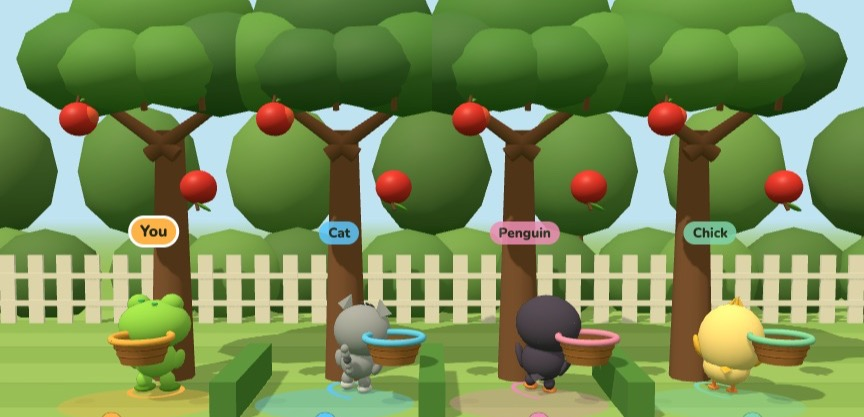
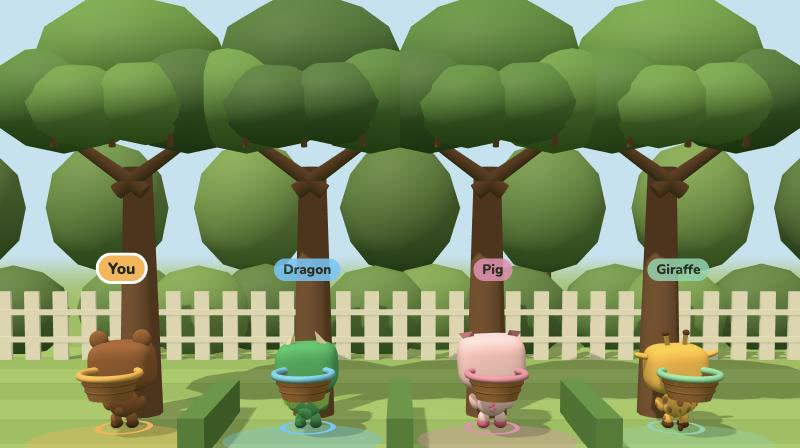
Retake game screenshots with Pop characters
Seventeen game previews still showed the classic round-headed critters or
the older robots. Retake them in-game with the Pop figures, a different
player character in each, and update alt text that described robots.

diff --git a/src/main.js b/src/main.js
@@ -1292,17 +1292,17 @@ for (const list of document.querySelectorAll("#home .choice-row")) {
           option.dataset.game === "toybox"
             ? `<span class="map-thumb toybox-preview" aria-hidden="true"><span>🧸 🚀 🦆</span><b>✥</b><span>🚗 🦕 ⚽</span></span>`
             : option.dataset.game === "sprinklers"
-              ? `<span class="map-thumb"><img src="${sprinklerDodgePreview}" alt="Sprinkler Dodge live gameplay: a blue robot in a sunny green backyard surrounded by hedges and white fences" draggable="false"></span>`
+              ? `<span class="map-thumb"><img src="${sprinklerDodgePreview}" alt="Sprinkler Dodge live gameplay: a penguin in a sunny green backyard surrounded by hedges and white fences" draggable="false"></span>`
               : option.dataset.game === "memory"
                 ? `<span class="map-thumb"><img src="${fireflyRecallPreview}" alt="Firefly Recall live gameplay: colored fireflies around a backyard campfire beside a tent" draggable="false"></span>`
                 : option.dataset.game === "slipstream"
-                  ? `<span class="map-thumb"><img src="${slipstreamPreview}" alt="Slipstream live gameplay: robots racing down a grassy hill past blue slip n slides and mudpiles toward a distant house" draggable="false"></span>`
+                  ? `<span class="map-thumb"><img src="${slipstreamPreview}" alt="Slipstream live gameplay: a fox and three chicks lined up on a grassy hill with slip n slides and mudpiles ahead" draggable="false"></span>`
                   : option.dataset.game === "livewire"
-                    ? `<span class="map-thumb"><img src="${beachBallDodgePreview}" alt="Beach Ball Dodge live gameplay: two players on an inflatable float in a backyard pool, a lane lit up across the float and beach balls flying across the water" draggable="false"></span>`
+                    ? `<span class="map-thumb"><img src="${beachBallDodgePreview}" alt="Beach Ball Dodge live gameplay: a red panda on an inflatable float in a backyard pool, a beach ball flying across the water" draggable="false"></span>`
                     : option.dataset.game === "breakout"
-                      ? `<span class="map-thumb"><img src="${breakoutPreview}" alt="Breakout gameplay: a runner on a three-lane orchard course with log hurdles" draggable="false"></span>`
+                      ? `<span class="map-thumb"><img src="${breakoutPreview}" alt="Breakout gameplay: a baby running a three-lane orchard course with log hurdles" draggable="false"></span>`
                       : option.dataset.game === "boulders"
-                        ? `<span class="map-thumb"><img src="${boulderDashPreview}" alt="Boulder Dash live gameplay: a climber facing a boulder rolling down the channel" draggable="false"></span>`
+                        ? `<span class="map-thumb"><img src="${boulderDashPreview}" alt="Boulder Dash live gameplay: a giraffe facing a watermelon rolling down the channel" draggable="false"></span>`
                         : MAP_THUMBS[ground]
                           ? mapThumb(ground)
                           : `<span class="map-thumb game-arena">${icon("flag", 36)}<b>DEDICATED ARENA</b></span>`,

diff --git a/src/shooAway.js b/src/shooAway.js
@@ -141,7 +141,7 @@ export function installShooAway(getLevel, getAvatar) {
   entry.className = "choice";
   entry.dataset.game = "shooaway";
   entry.setAttribute("aria-pressed", "false");
-  entry.innerHTML = `<span class="map-thumb"><img src="${preview}" alt="A squirrel scampering off across the lawn with an apple from a red gingham picnic blanket" draggable="false"></span><strong>${TITLE}</strong><small>Squirrels (and a few speedy foxes) sneak in from every side to steal your picnic. Look all around and shoo them off before they take three snacks!</small>`;
+  entry.innerHTML = `<span class="map-thumb"><img src="${preview}" alt="A fox and a squirrel sneaking toward a red gingham picnic blanket" draggable="false"></span><strong>${TITLE}</strong><small>Squirrels (and a few speedy foxes) sneak in from every side to steal your picnic. Look all around and shoo them off before they take three snacks!</small>`;
   games.append(entry);
   entry.onclick = () => open(getLevel(), avatarChoice(getAvatar?.()));
 }

diff --git a/src/roofCatch.js b/src/roofCatch.js
@@ -37,7 +37,7 @@ export function installRoofCatch(getAvatar) {
   entry.className = "choice";
   entry.dataset.game = "roofcatch";
   entry.setAttribute("aria-pressed", "false");
-  entry.innerHTML = `<span class="map-thumb"><img src="${roofCatchPreview}" alt="Roof Catch gameplay showing an apple on the tin roof and a robot holding a basket" draggable="false"></span><strong>Roof Catch</strong><small>Catch fruit rolling off a tin roof. Dodge pebbles and mud before you miss three fruit.</small>`;
+  entry.innerHTML = `<span class="map-thumb"><img src="${roofCatchPreview}" alt="Roof Catch gameplay showing an apple on the tin roof and a raccoon holding a basket" draggable="false"></span><strong>Roof Catch</strong><small>Catch fruit rolling off a tin roof. Dodge pebbles and mud before you miss three fruit.</small>`;
   games.append(entry);
   entry.onclick = () => {
     document.exitPointerLock?.();

diff --git a/src/backyardFling.js b/src/backyardFling.js
@@ -111,7 +111,7 @@ export function installBackyardFling(getLevel, getAvatar) {
   entry.className = "choice";
   entry.dataset.game = "backyardfling";
   entry.setAttribute("aria-pressed", "false");
-  entry.innerHTML = `<span class="map-thumb"><img src="${preview}" alt="A toy car rolling off a wide stunt ramp toward a picnic table" draggable="false"></span><strong>${TITLE}</strong><small>Loop the loop, steer down the wide ramp and fly your critter's car into towers of wooden blocks!</small>`;
+  entry.innerHTML = `<span class="map-thumb"><img src="${preview}" alt="A chick driving a toy car down an orange stunt track" draggable="false"></span><strong>${TITLE}</strong><small>Loop the loop, steer down the wide ramp and fly your critter's car into towers of wooden blocks!</small>`;
   games.append(entry);
   entry.onclick = () => open(getLevel(), avatarChoice(getAvatar()));
 }

diff --git a/src/pondFishing.js b/src/pondFishing.js
@@ -101,7 +101,7 @@ export function installPondFishing(getLevel, getAvatar) {
   entry.className = "choice";
   entry.dataset.game = "pondfishing";
   entry.setAttribute("aria-pressed", "false");
-  entry.innerHTML = `<span class="map-thumb"><img src="${preview}" alt="A fishing bobber in a backyard pond" draggable="false"></span><strong>Pond Fishing</strong><small>Cast into the pond and reel in when the bobber dunks. Little fish, big fish, old boots and trash. Ten casts.</small>`;
+  entry.innerHTML = `<span class="map-thumb"><img src="${preview}" alt="An axolotl fishing from a dock on a backyard pond" draggable="false"></span><strong>Pond Fishing</strong><small>Cast into the pond and reel in when the bobber dunks. Little fish, big fish, old boots and trash. Ten casts.</small>`;
   games.append(entry);
   entry.onclick = () => open(getLevel(), getAvatar());
 }

diff --git a/src/backyardAirMail.js b/src/backyardAirMail.js
@@ -40,7 +40,7 @@ export function installBackyardAirMail(getAvatar) {
   entry.className = "choice";
   entry.dataset.game = "backyardairmail";
   entry.setAttribute("aria-pressed", "false");
-  entry.innerHTML = `<span class="map-thumb"><img src="${loopAndGlidePreview}" alt="A toy car gliding toward a picnic basket in a fenced backyard" draggable="false"></span><strong>${title}</strong><small>Race through the loop and glide onto a picnic target.</small>`;
+  entry.innerHTML = `<span class="map-thumb"><img src="${loopAndGlidePreview}" alt="A dog gliding a toy car over a picnic-blanket pool in a fenced backyard" draggable="false"></span><strong>${title}</strong><small>Race through the loop and glide onto a picnic target.</small>`;
   games.append(entry);
   entry.onclick = () => openGame(getAvatar());
 }
